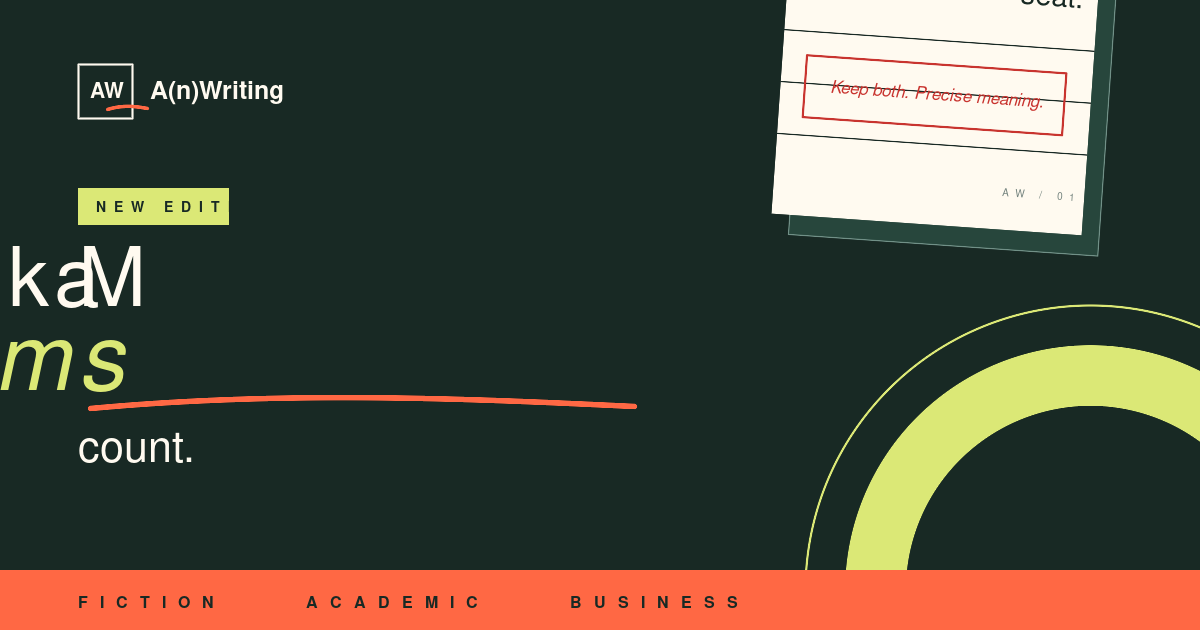
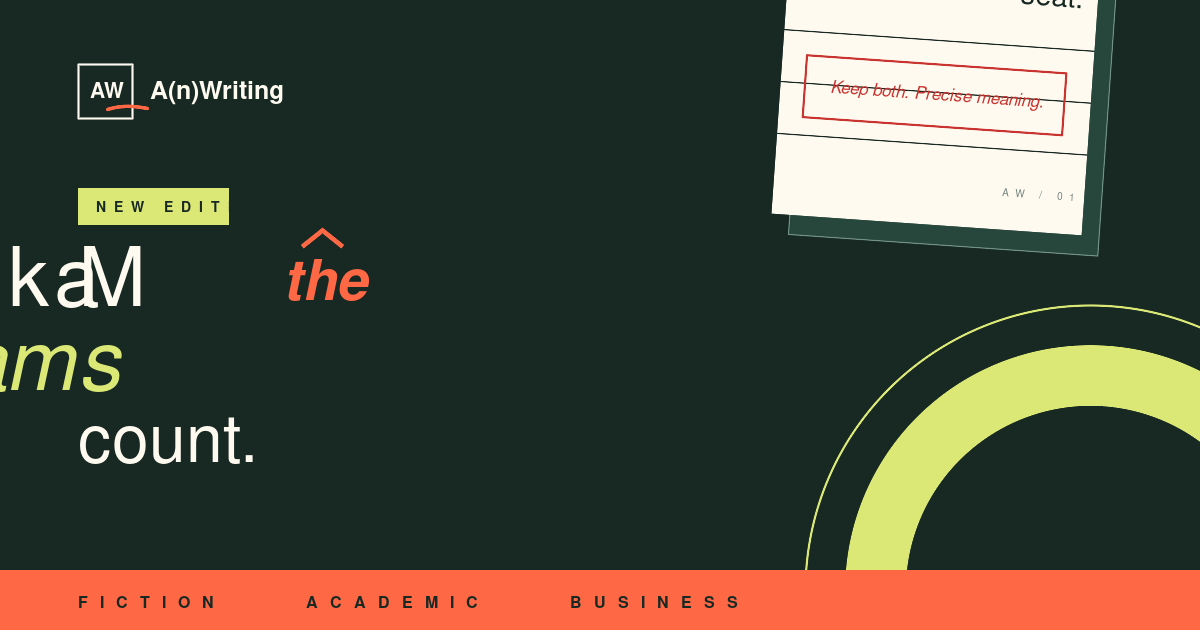
Fix the hero copy

Changed region(s): [[0.0, 0.5429, 0.5242, 0.754], [0.2158, 0.3619, 0.3083, 0.4825]]

diff --git a/index.html b/index.html
@@ -17,7 +17,7 @@
     <meta property="og:site_name" content="A(n)Writing" />
     <meta property="og:locale" content="en_GB" />
     <meta property="og:url" content="https://anwriting.netlify.app/" />
-    <meta property="og:title" content="A(n)Writing — Make every small word count." />
+    <meta property="og:title" content="A(n)Writing — Make the small words count." />
     <meta
       property="og:description"
       content="Proofread articles across fiction, academic, and business writing."
@@ -32,11 +32,11 @@
     <meta property="og:image:height" content="630" />
     <meta
       property="og:image:alt"
-      content="A(n)Writing editorial practice: Make every small word count."
+      content="A(n)Writing editorial practice: Make the small words count."
     />
 
     <meta name="twitter:card" content="summary_large_image" />
-    <meta name="twitter:title" content="A(n)Writing — Make every small word count." />
+    <meta name="twitter:title" content="A(n)Writing — Make the small words count." />
     <meta
       name="twitter:description"
       content="Proofread articles across fiction, academic, and business writing."
@@ -44,7 +44,7 @@
     <meta name="twitter:image" content="https://anwriting.netlify.app/social-preview.png" />
     <meta
       name="twitter:image:alt"
-      content="A(n)Writing editorial practice: Make every small word count."
+      content="A(n)Writing editorial practice: Make the small words count."
     />
     <title>A(n)Writing — English article proofreading</title>
   </head>
@@ -67,7 +67,14 @@
       <section class="hero" aria-labelledby="hero-title">
         <div class="hero-copy">
           <p class="edition-label"><span>New edition</span> English article studio</p>
-          <h1 id="hero-title">Make every<br /><em>small word</em> count.</h1>
+          <h1 id="hero-title">
+            <span class="hero-title-line hero-title-lead">
+              Make
+              <span class="hero-title-insert">the<i aria-hidden="true">∧</i></span>
+            </span>
+            <em class="hero-title-line">small words</em>
+            <span class="hero-title-line">count.</span>
+          </h1>
           <p class="hero-intro">
             Step into the editor’s chair. Restore <strong>a</strong>, <strong>an</strong>, and
             <strong>the</strong> across three very different kinds of writing.
@@ -276,7 +283,7 @@
           <span class="brand-proof" aria-hidden="true">AW</span>
           <span>A(n)Writing</span>
         </a>
-        <p>Make every small word count.</p>
+        <p>Make the small words count.</p>
       </div>
       <p>Original practice texts · Built for curious English learners</p>
       <a href="#main-content">Back to top ↑</a>

diff --git a/src/styles.css b/src/styles.css
@@ -241,29 +241,58 @@ main {
 }
 
 .hero h1 {
-  max-width: 12ch;
+  display: flex;
+  width: fit-content;
+  max-width: 100%;
   margin: 0;
   font-family: var(--serif);
-  font-size: clamp(4.6rem, 8.3vw, 8rem);
+  font-size: clamp(4.2rem, 7.2vw, 7.2rem);
   font-weight: 400;
   letter-spacing: -0.075em;
-  line-height: 0.82;
+  line-height: 0.9;
+  flex-direction: column;
 }
 
 .hero h1 em {
-  position: relative;
   color: var(--chartreuse);
   font-weight: 400;
 }
 
-.hero h1 em::after {
+.hero-title-line {
+  display: block;
+  width: fit-content;
+  white-space: nowrap;
+}
+
+.hero-title-lead {
+  display: flex;
+  align-items: baseline;
+}
+
+.hero-title-insert {
+  position: relative;
+  display: inline-block;
+  margin-left: 0.22em;
+  color: var(--orange);
+  font-family: var(--sans);
+  font-size: 0.7em;
+  font-style: italic;
+  font-weight: 800;
+  letter-spacing: 0;
+  line-height: 1;
+  transform: translateY(-0.08em) rotate(-6deg);
+}
+
+.hero-title-insert i {
   position: absolute;
-  right: -0.05em;
-  bottom: -0.05em;
-  left: 0.08em;
-  border-top: 3px solid var(--orange);
-  content: "";
-  transform: rotate(-2deg);
+  bottom: calc(100% + 0.04em);
+  left: 50%;
+  font-family: var(--sans);
+  font-size: 0.68em;
+  font-style: normal;
+  font-weight: 700;
+  line-height: 1;
+  transform: translateX(-50%);
 }
 
 .hero-intro {
@@ -1567,7 +1596,8 @@ main {
   }
 
   .hero h1 {
-    font-size: clamp(3.65rem, 18vw, 5.6rem);
+    font-size: clamp(3.2rem, 16vw, 5.2rem);
+    line-height: 0.94;
   }
 
   .proof-preview {

diff --git a/e2e/exercise.spec.ts b/e2e/exercise.spec.ts
@@ -4,7 +4,7 @@ import { expect, test } from '@playwright/test';
 test('opens the editorial studio with no detectable accessibility violations', async ({ page }) => {
   await page.goto('/');
 
-  await expect(page.getByRole('heading', { name: /make every small word count/i })).toBeVisible();
+  await expect(page.getByRole('heading', { name: /make the small words count/i })).toBeVisible();
   await expect(page.getByRole('heading', { name: /three writing desks/i })).toBeVisible();
 
   const results = await new AxeBuilder({ page }).analyze();
